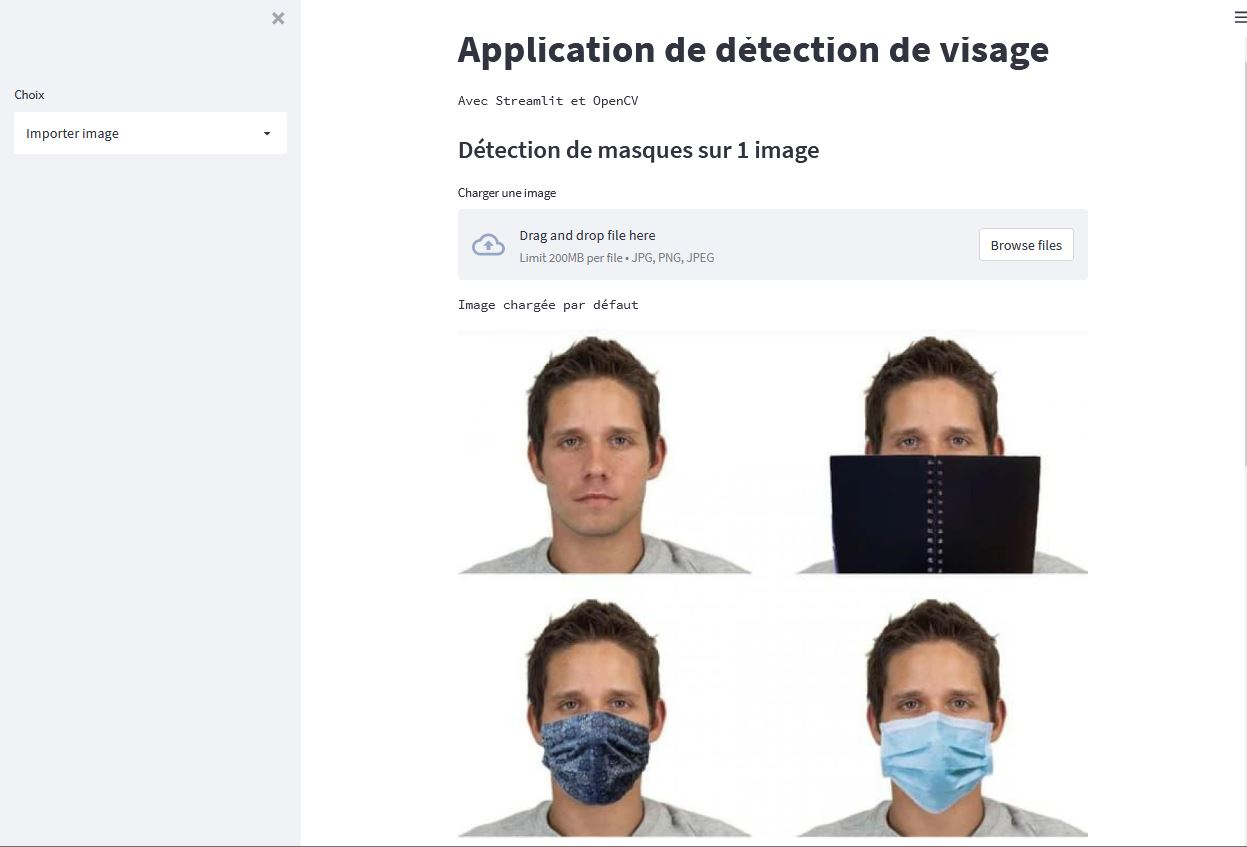
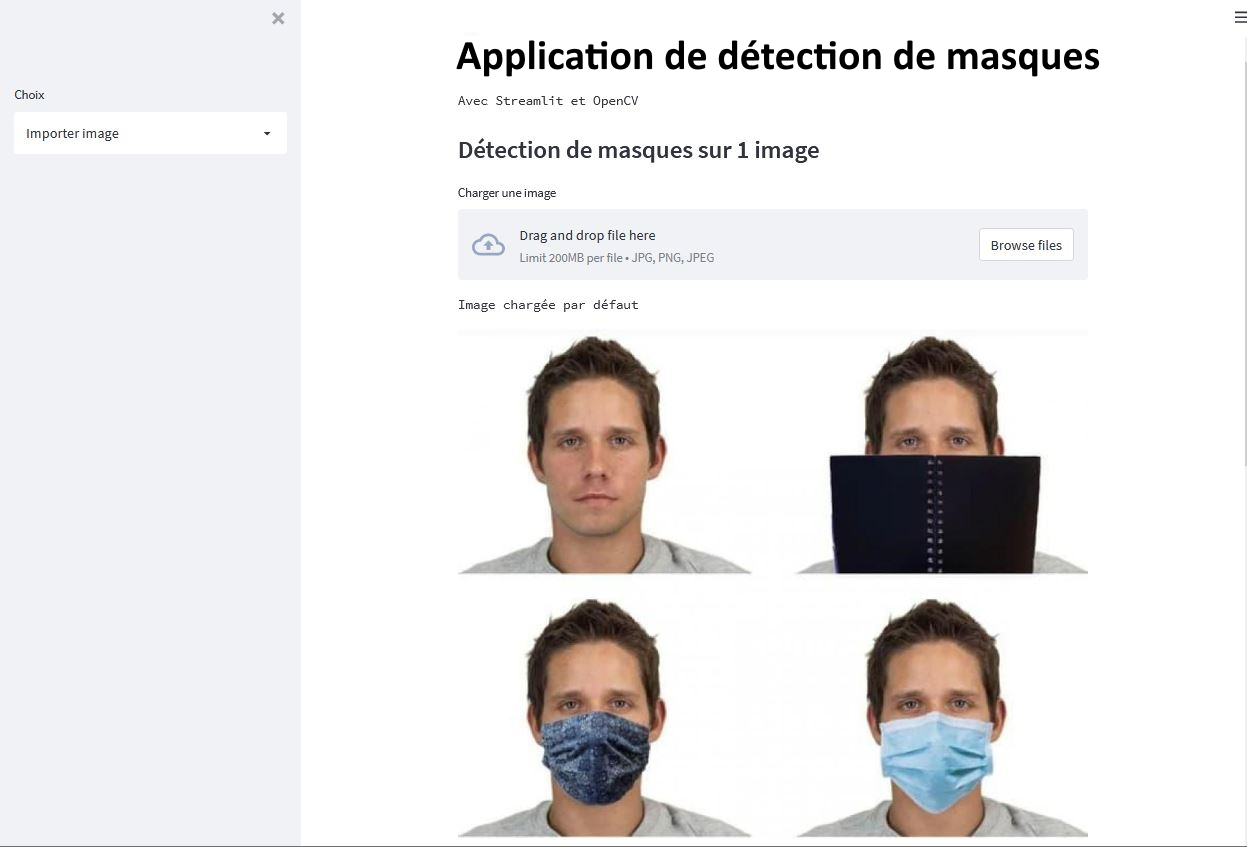
ajout lien en ligne de l'application en ligne

Changed region(s): [[0.3657, 0.0307, 0.8837, 0.0921]]

diff --git a/app.py b/app.py
@@ -28,7 +28,7 @@ def detect_mask(image):
 
 def main():
     """Face Detection App"""
-    st.title("Application de détection de visage")
+    st.title("Application de détection de masques")
     st.text("Avec Streamlit et OpenCV")
     
     activities = ["Importer image","Image par webcam","Autre"]

diff --git a/README.md b/README.md
@@ -26,3 +26,17 @@ Développer une application Streamlit capable à détecter/localiser le ou les v
     - l'environnement : requirements.txt
 
 **************************************************************************************************************
+## Application streamlit : "Détection des masques "
+lien : [site](https://share.streamlit.io/mainald/18_model_ia_detection_masks_2/main/app.py)
+
+Dans l'application je propose de détecter les visages sur les images, puis de détecter si la personne porte une masque ou non.
+Je donne le résultats obtenus et la possibilité d'importer ce résultat. 
+
+### Détection par import d'une image, avec image type pré-importé
+![1](images\Capture01.JPG)
+![2](images\Capture02.JPG)
+### Détection par prise d'une image avec la webcam
+![3](images\Capture03.JPG)
+![4](images\Capture04.JPG)
+
+
